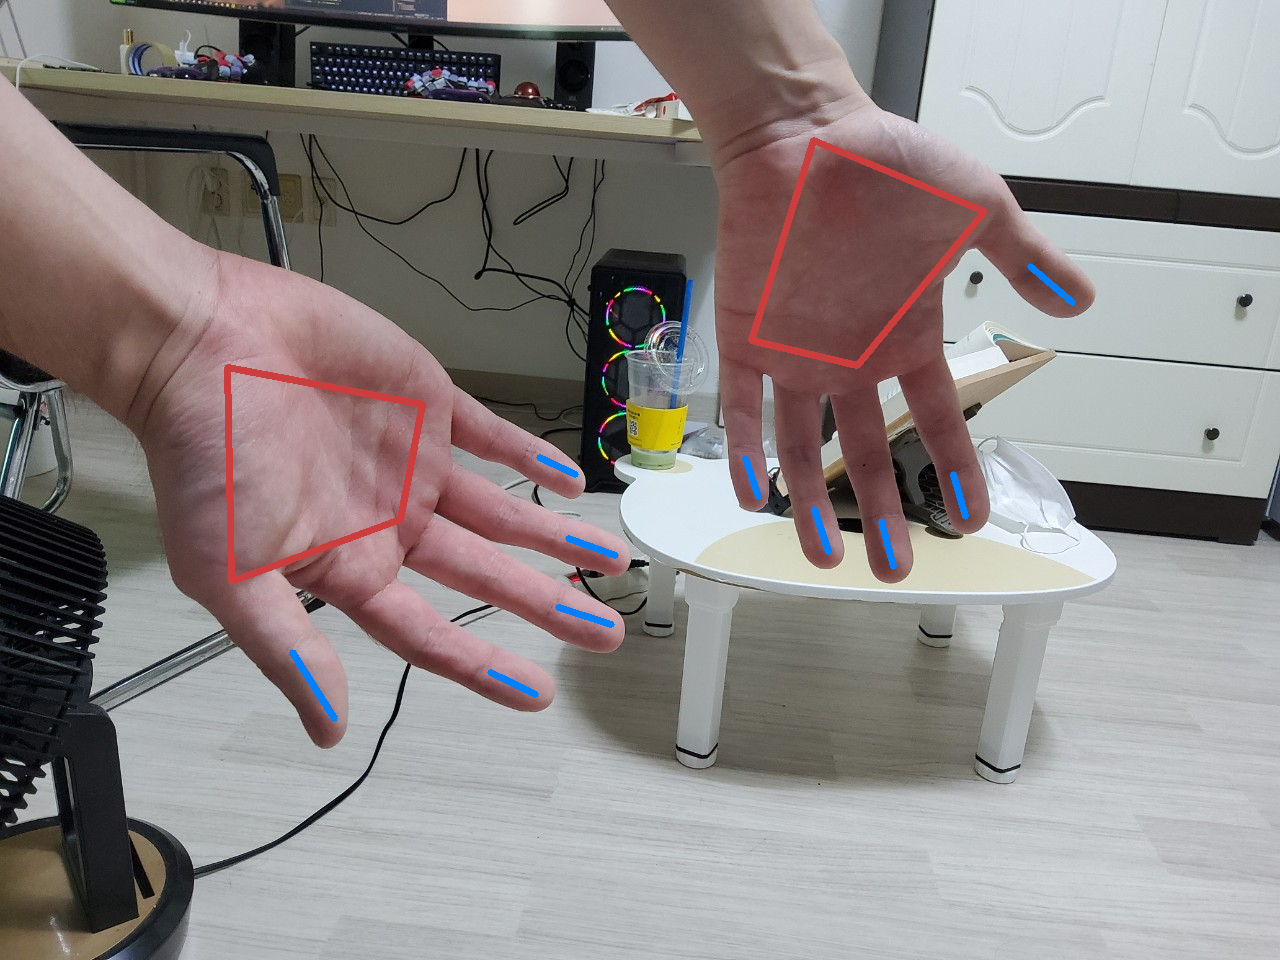
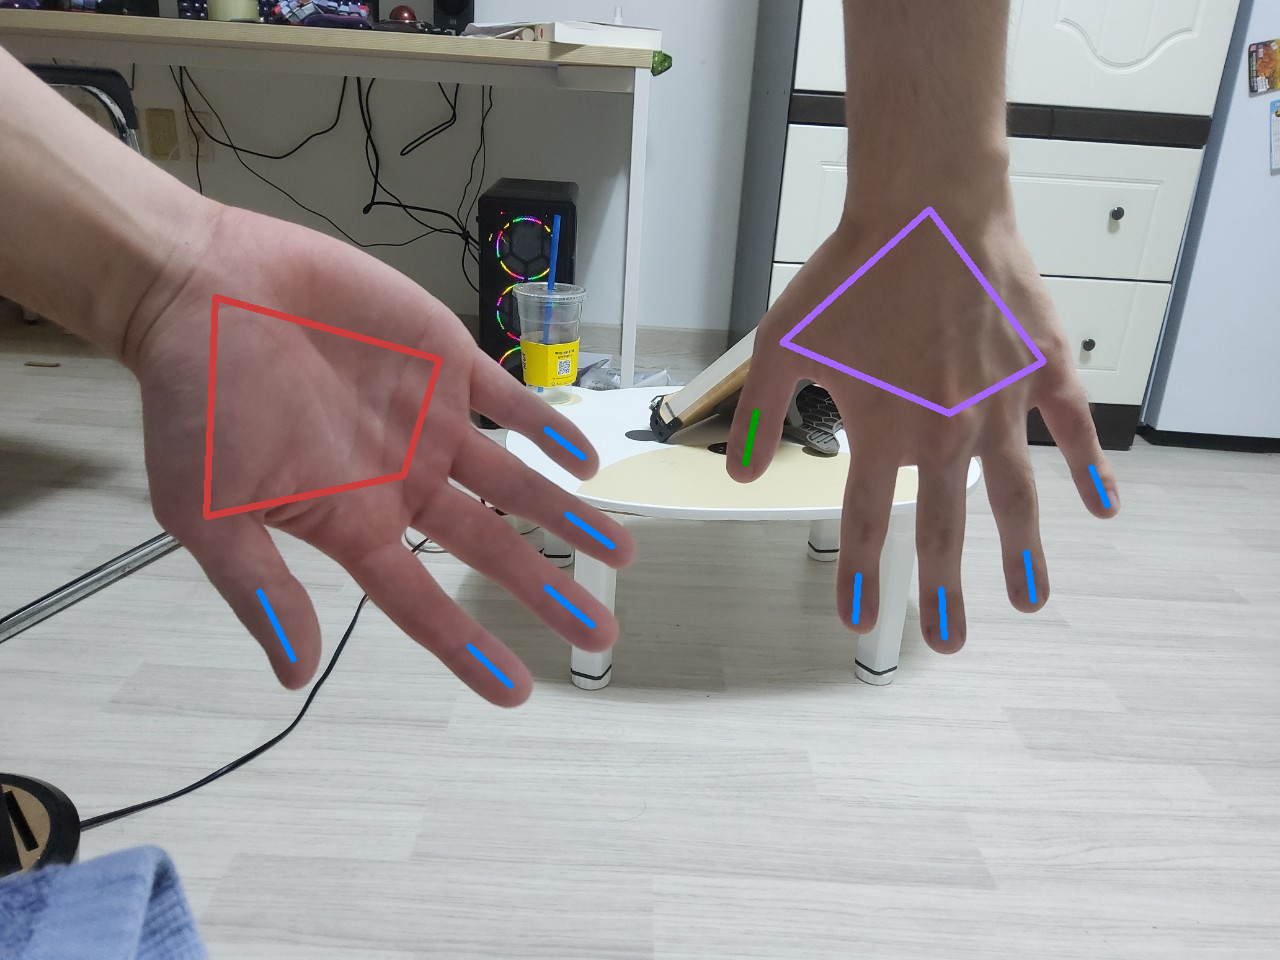
detect finger folded

diff --git a/test.py b/test.py
@@ -17,8 +17,9 @@ mp_drawing_styles = mp.solutions.drawing_styles
 mp_hands = mp.solutions.hands
 
 
-finger_dip = [3,7,11,15,19] # 각 손가락의 끝부분을 리스트로 관리한다. 
+finger_dip = [3,7,11,15,19] # 각 손가락의 끝부분을 리스트로 관리한다. (엄지, 검지, 중지, 약지, 소지)
 palm_point = [0,2 ,9, 17]   # 손바닥을 판단하기위한 4개의 지점을 리스트로 관리한다.
+thumb_folded = 0
 
 # 두 수를 비교하여 작은 값과 큰 값을 구분한다. 
 
@@ -34,15 +35,18 @@ def len_line(coord):
     return np.sqrt(np.sum(coord*coord))
 
 # 좌표의 회전이동 공식을 이용하여 현재 탐지한 손이 손바닥부분인지 손등 부분인지 확인한다 
-# 손등인경우 0 손바닥인 경우 1을 반환한다. 
+# 손등인경우 0 손바닥인 경우 1을 반환한다.
+
+
+
 def isPalm(coord, hand_):
     mov_zero = coord - coord[0]
     len_l = len_line(mov_zero[2])
     sin = -(mov_zero[2][1]/len_l)
     cos = mov_zero[2][0]/len_l
-    y2 = coord[1][0]*sin + coord[1][1]*cos
-    y17 = coord[3][0]*sin + coord[3][1]*cos
-    
+    y2 = coord[1][0]*sin + coord[1][1]*cos          #thumb_mcp
+    y17 = coord[3][0]*sin + coord[3][1]*cos         #pinky_mcp
+    # 4번 좌표를 받아 회전공식적용 y좌표를 y2와 비교 , 해당 손에 따라 사용
     print(hand_)
     if (y2 < y17):          # 엄지가 아래
         if (hand_ == 0):    # 왼손인 경우
@@ -55,6 +59,28 @@ def isPalm(coord, hand_):
         else :              # 오른손인 경우
             return 0
     return 0
+
+def thumb_folded(coord, hand_, cood_thumb_tip, cood_thumb_dip):
+    mov_zero = coord - coord[0]
+    len_l = len_line(mov_zero[2])
+    sin = -(mov_zero[2][1]/len_l)
+    cos = mov_zero[2][0]/len_l
+    y2 = coord[1][0]*sin + coord[1][1]*cos          #thumb_mcp
+    # 4번 좌표를 받아 회전공식적용 y좌표를 y2와 비교 , 해당 손에 따라 사용
+    y4 = cood_thumb_tip[0]*sin + cood_thumb_tip[1]*cos
+
+    print(hand_)
+    if (y2 < y4):          # 엄지가 관절보다 위
+        if (hand_ == 0):    # 왼손인 경우
+            return False        # 접혀 있음
+        else :              # 오른손인 경우
+            return True
+    else :                  # 엄지가 관절보다 아래
+        if (hand_ == 0):    # 왼손인 경우
+            return True
+        else :              # 오른손인 경우
+            return False
+    return False
 
 # 손가락이 접혀있는지 판단하는 알고리즘이다.  !!! 현재 엄지의 손가락이 접혀있는지 판단할 수가 없다. 
 # 인자로는 손가락 Tip과 Dip 좌표를 받는다. 
@@ -71,8 +97,20 @@ def foldedFinger(coord_tip, coord_dip, rest):
     return folded
 
  
+def draw_ellipse(image, coord_tip, coord_dip, color):
+    cood_med = tuple((np.array(coord_tip) + np.array(coord_dip))//2)
+    len_l = int(len_line(np.array(coord_tip) - np.array(coord_dip))/2)
+    len_2 = int(len_l//2)
+    cood_temp= np.array(coord_tip) - np.array(coord_dip)
+    cood_angle = int(np.arctan2(cood_temp[1],cood_temp[0]) * 180 / math.pi)
+    
+    image = cv2.ellipse(image,cood_med,(len_l,len_2),cood_angle,0,360,color,-1)
+    
+    return image
+
+
 # For static images:
-IMAGE_FILES = ["./hand_img2.jpg","./hand_img3.jpg","./hand_img4.jpg","./hand_img5.jpg","./hand_img6.jpg","./hand2_img.jpg","./hand2_img2.jpg"]
+IMAGE_FILES = ["./hand_img3.jpg","./hand_img4.jpg","./hand_img6.jpg","./hand_img5.jpg","./hand2_img.jpg","./hand2_img2.jpg"]
 with mp_hands.Hands(
     static_image_mode=True,
     max_num_hands=2,
@@ -162,9 +200,11 @@ with mp_hands.Hands(
       if(front == 0):       # 손바닥 앞면 구분
           color = (255,102,165) # 손등인경우 
       else :
-          color = (61,61,204)   # 손바닥인 경우 
-      
-      finger_folded = foldedFinger(np.array(finger_tip_coord), np.array(finger_dip_coord), np.array(palm_point_coordinate[0]))
+          color = (61,61,204)   # 손바닥인 경우
+
+      finger_folded = foldedFinger(np.array(finger_tip_coord), np.array(finger_dip_coord),np.array(palm_point_coordinate[0]))
+
+      finger_folded[0] = thumb_folded(np.array(palm_point_coordinate), hand_, np.array(finger_tip_coord[0]),np.array(finger_dip_coord[0]))
       print(finger_folded)
       
       # 테스트용 이미지 그림 
@@ -176,14 +216,18 @@ with mp_hands.Hands(
       
       temp_tip = np.array(finger_tip_coord,dtype=int)
       temp_dip = np.array(finger_dip_coord,dtype=int)
+      #손가락 굽힘 확인
+
+
       for i , ff in enumerate(finger_folded):
-          if(ff):
+          if(ff):   #손가락 굽힘
               color = (0,153,0)
-          else:
+          else:     #안굽힘
               color = (255, 128, 0)
+              #color = (0,0,0)
         
           img_test = cv2.line(img_test,(temp_tip[i][0],temp_tip[i][1]),(temp_dip[i][0],temp_dip[i][1]),color,5)
-      
+          #img_test = draw_ellipse(img_test,(temp_tip[i][0],temp_tip[i][1]),(temp_dip[i][0],temp_dip[i][1]),color)
       '''
       cv2.imshow('test',img_test)
       cv2.waitKey(0)

diff --git a/untitled0.py b/untitled0.py
@@ -1,0 +1,54 @@
+# -*- coding: utf-8 -*-
+"""
+Created on Tue Nov  9 21:09:13 2021
+
+@author: rfkjh
+"""
+
+import numpy as np
+import cv2
+import math
+
+def len_line(coord):
+    return np.sqrt(np.sum(coord*coord))
+
+def draw_ellipse(image, coord_tip, coord_dip):
+    red_color = (0,0,255)
+    cood_med = tuple((np.array(coord_tip) + np.array(coord_dip))//2)
+    len_l = int(len_line(np.array(coord_tip) - np.array(coord_dip))/2)
+    len_2 = int(len_l//2)
+    cood_temp= np.array(coord_tip) - np.array(coord_dip)
+    cood_angle = int(np.arctan2(cood_temp[1],cood_temp[0]) * 180 / math.pi)
+    
+    image = cv2.ellipse(image,cood_med,(len_l,len_2),cood_angle,0,360,red_color,2)
+    
+    return image
+
+
+blue_color = (255,0,0)
+red_color = (0,0,255)
+black_color = (0,0,0)
+cood1 = (290, 70)
+cood2 = (170,290)
+co1 = (70,70 )
+co2 = (280, 290)
+
+img = np.zeros((384,384,3), np.uint8)
+img += 255
+img = cv2.ellipse(img,(290,70), (20,50), 0,0,360, blue_color,-1)
+img = cv2.line(img,cood1, cood2, red_color, 5)
+
+
+cood_med = tuple((np.array(cood1) + np.array(cood2))//2)
+len_l = int(len_line(np.array(cood1) - np.array(cood2))/2)
+len_2 = int(len_l//2)
+cood_temp= np.array(cood1) - np.array(cood2)
+cood_angle = int(np.arctan2(cood_temp[1],cood_temp[0]) * 180 / math.pi)
+
+img = cv2.ellipse(img,cood_med,(len_l,len_2),cood_angle,0,360,black_color,-1)
+#img = draw_ellipse(img, co1, co2)
+
+
+cv2.imshow('ellipse',img)
+cv2.waitKey(0)
+cv2.destoryAllWindows()

diff --git a/untitled1.py b/untitled1.py
@@ -1,0 +1,51 @@
+# -*- coding: utf-8 -*-
+"""
+Created on Wed Nov 10 19:24:31 2021
+
+@author: rfkjh
+"""
+
+import numpy as np
+import cv2
+import math
+
+def finger_print_blur(img_o, img):
+    img_g = cv2.cvtColor(img, cv2.COLOR_BGR2GRAY)
+    img_o_g = cv2.cvtColor(img_o, cv2.COLOR_BGR2GRAY)
+
+    result = (img_g != img_o_g).astype(np.uint8)
+    blur_img = cv2.blur(img_o, (5, 5))
+    result = cv2.merge([result, result, result])
+    final = blur_img * result
+
+    f_final = final + img
+
+    return f_final
+
+img = cv2.imread('./ellipes_hand.png')
+img_o = cv2.imread('./hand_img3.jpg')
+'''
+img_g = cv2.cvtColor(img,cv2.COLOR_BGR2GRAY)
+img_o_g = cv2.cvtColor(img_o, cv2.COLOR_BGR2GRAY)
+
+result = (img_g != img_o_g).astype(np.uint8)
+blur_img = cv2.blur(img_o,(5,5))
+result = cv2.merge([result,result, result])
+final = blur_img * result
+
+f_final = final + img
+'''
+f_final = finger_print_blur(img_o, img)
+
+cv2.imshow('original',img)
+cv2.imshow('jfjfj',img_o)
+#cv2.imshow('lll', final)
+cv2.imshow('jjj', f_final)
+
+
+
+
+
+
+cv2.waitKey(0)
+cv2.destoryAllWindows()
